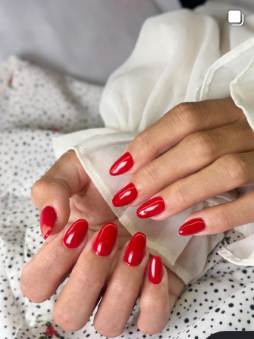
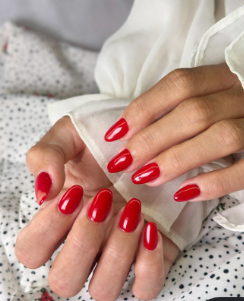
Demo Amanda: fotos sem ícones do Instagram, grade alinhada e blocos sem sobras
Claude-Session: https://claude.ai/code/session_019sgCvRe5EiCahxQhv7UA4W

diff --git a/demos/amanda/estilo.css b/demos/amanda/estilo.css
@@ -80,7 +80,7 @@ main>section{padding:0}
 .abertura{display:grid;grid-template-columns:1.05fr .95fr;gap:48px;align-items:center;padding:56px 0 48px}
 .abertura h1{margin-bottom:18px}
 .ab-t .sub{margin-bottom:6px}
-.nums{display:flex;flex-wrap:wrap;gap:12px 28px;border-top:1px solid var(--c-line);padding-top:18px;margin-top:22px}
+.nums{display:grid;grid-template-columns:repeat(3,1fr);gap:12px 20px;border-top:1px solid var(--c-line);padding-top:18px;margin-top:22px}
 .nums div{font-size:13px;color:var(--c-mut)}
 .nums b{display:block;font:var(--f-num);color:var(--c-fg);font-weight:500}
 .arco{position:relative}
@@ -90,7 +90,7 @@ main>section{padding:0}
 .faixa-i{max-width:1100px;margin:0 auto;padding:0 max(16px,env(safe-area-inset-left,0px));display:grid;grid-template-columns:1fr 1fr;gap:40px;align-items:center}
 .faixa h2{color:inherit}
 .faixa p{opacity:.85;max-width:46ch}
-.tons{display:grid;grid-template-columns:repeat(auto-fit,minmax(78px,1fr));gap:14px;list-style:none;padding:0;margin:0}
+.tons{display:grid;grid-template-columns:repeat(3,1fr);gap:18px 10px;list-style:none;padding:0;margin:0}
 .tons li{text-align:center;font-size:12px;opacity:.95}
 .tons i{display:block;width:100%;max-width:68px;aspect-ratio:1;border-radius:50%;margin:0 auto 8px;border:2px solid rgba(255,255,255,.35)}
 .bloco{padding:64px 0}
@@ -99,16 +99,15 @@ main>section{padding:0}
 .linha-h{display:flex;justify-content:space-between;align-items:flex-end;gap:16px;flex-wrap:wrap;margin-bottom:24px}
 .linha-h h2{margin:0;max-width:20ch}
 .ig{font-size:14px;font-weight:600;text-decoration:none;border-bottom:2px solid var(--c-acc);padding-bottom:2px}
-.cards3{display:grid;grid-template-columns:repeat(auto-fit,minmax(300px,1fr));gap:16px}
+.cards3{display:grid;grid-template-columns:repeat(6,1fr);gap:16px}.cards3>*{grid-column:span 2}.cards3>*:nth-child(n+4){grid-column:span 3}@media(max-width:760px){.cards3>*,.cards3>*:nth-child(n+4){grid-column:1/-1}}
 .card2{background:var(--c-card);border:1px solid var(--c-line);border-radius:22px;padding:24px;display:flex;flex-direction:column;gap:10px}
 .card2 h3{font:var(--f-h3);margin:0}
 .card2 p{margin:0;color:var(--c-mut);font-size:15px}
 .card2 .bom{color:var(--c-fg);font-size:14px}
 .card2 .rod{margin-top:auto;padding-top:12px;border-top:1px dashed var(--c-line);color:var(--c-acc);font-weight:600;font-size:14px}
-.mason{display:grid;grid-template-columns:repeat(auto-fit,minmax(170px,1fr));gap:14px;align-items:start}
+.mason{display:grid;grid-template-columns:repeat(5,1fr);gap:14px}@media(max-width:860px){.mason{grid-template-columns:repeat(2,1fr)}.mason figure:last-child{grid-column:1/-1}}
 .mason figure{margin:0;position:relative}
-.mason figure:nth-child(even){margin-top:28px}
-.mason img{width:100%;aspect-ratio:3/4;object-fit:cover;border-radius:22px;display:block}
+.mason img{width:100%;aspect-ratio:4/5;object-fit:cover;border-radius:22px;display:block}
 .mason figcaption{position:absolute;left:10px;bottom:10px;background:var(--c-bg);color:var(--c-fg);font-size:12px;font-weight:600;padding:4px 11px;border-radius:99px}
 .nota{color:var(--c-mut);font-size:13px;margin:16px 0 0}
 .como{display:grid;grid-template-columns:1.4fr 1fr;gap:48px;align-items:center}

diff --git a/demos/amanda/agendamento/index.html b/demos/amanda/agendamento/index.html
@@ -6,7 +6,7 @@
 <meta name="robots" content="noindex, nofollow">
 <title>Agendar · Amanda Belas Unhas</title>
 <link href="https://fonts.googleapis.com/css2?family=Cormorant+Garamond:ital,wght@0,500;0,600;1,500&family=Inter:wght@400;500;600;700&display=swap" rel="stylesheet">
-<link rel="stylesheet" href="../estilo.css?v=3">
+<link rel="stylesheet" href="../estilo.css?v=4">
 </head>
 <body>
 <div class="demo">Demonstração · nenhum agendamento é real</div>
@@ -38,8 +38,8 @@
   <div class="ok" id="ok" role="status"><h2 data-pt="Horário reservado!" data-en="You're booked!">Horário reservado!</h2><p id="okt"></p><p class="note" data-pt="Agora veja como a Amanda recebe este agendamento no AbertoCore." data-en="Now see how Amanda receives this booking in AbertoCore.">Agora veja como a Amanda recebe este agendamento no AbertoCore.</p><a class="btn" id="ver" href="#" data-pt="Ver no AbertoCore" data-en="See in AbertoCore">Ver no AbertoCore</a></div>
 </main>
 <a class="ia" href="../#contato" data-pt="💬 Falar com a IA" data-en="💬 Chat with the AI">💬 Falar com a IA</a>
-<script src="../idioma.js?v=3"></script>
-<script src="../../perfil.js?v=3"></script>
+<script src="../idioma.js?v=4"></script>
+<script src="../../perfil.js?v=4"></script>
 <script>
 (function(){
   var S=[{pt:'Alongamento em gel',en:'Gel extensions',p:120,dur:150},{pt:'Manutenção do alongamento',en:'Extension refill',p:85,dur:120},{pt:'Esmaltação em gel',en:'Gel polish',p:55,dur:75},{pt:'Tratamento para unhas roídas',en:'Care for bitten nails',p:95,dur:120}];

diff --git a/demos/amanda/index.html b/demos/amanda/index.html
@@ -8,7 +8,7 @@
 <link rel="preconnect" href="https://fonts.googleapis.com">
 <link rel="preconnect" href="https://fonts.gstatic.com" crossorigin>
 <link href="https://fonts.googleapis.com/css2?family=Cormorant+Garamond:ital,wght@0,500;0,600;1,500&family=Inter:wght@400;500;600;700&display=swap" rel="stylesheet">
-<link rel="stylesheet" href="estilo.css?v=3">
+<link rel="stylesheet" href="estilo.css?v=4">
 </head>
 <body>
 <div class="demo">Demonstração · site de exemplo com informações públicas do perfil</div>
@@ -26,6 +26,6 @@
 </main>
 <footer class="rodape-site"><span>© 2026 Amanda Belas Unhas Studio · Goose Creek / Summerville, SC</span><span class="feito"><span data-pt="Site de demonstração feito com carinho por" data-en="Demo site made with care by">Site de demonstração feito com carinho por</span> <b>abertodigital</b></span></footer>
 <a class="bolha" href="#contato" aria-label="Chat"><span class="pt">💬</span> <span data-pt="Fale com a Amanda" data-en="Chat with Amanda">Fale com a Amanda</span></a>
-<script src="idioma.js?v=3"></script>
+<script src="idioma.js?v=4"></script>
 </body>
 </html>
